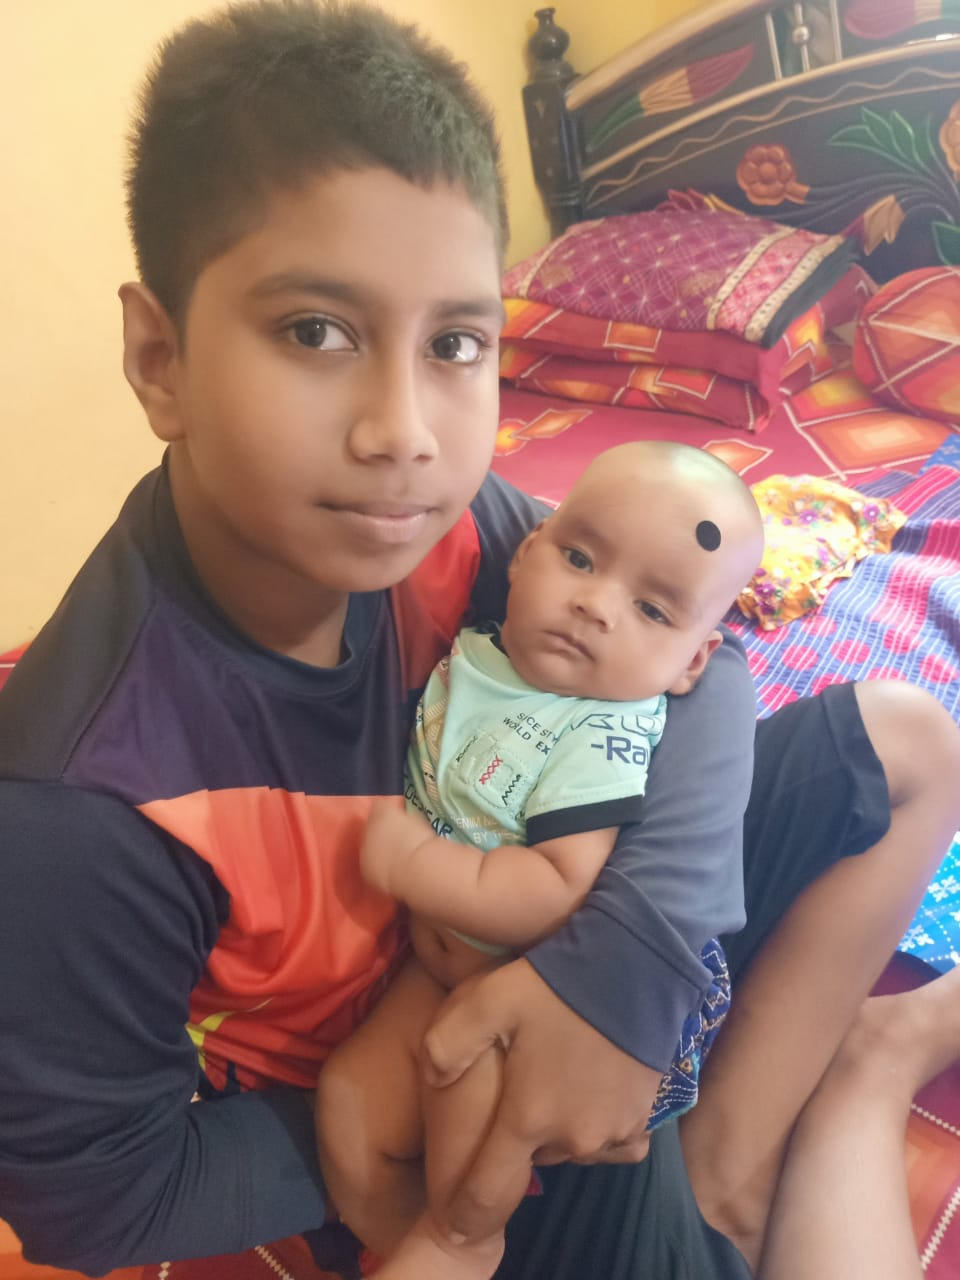
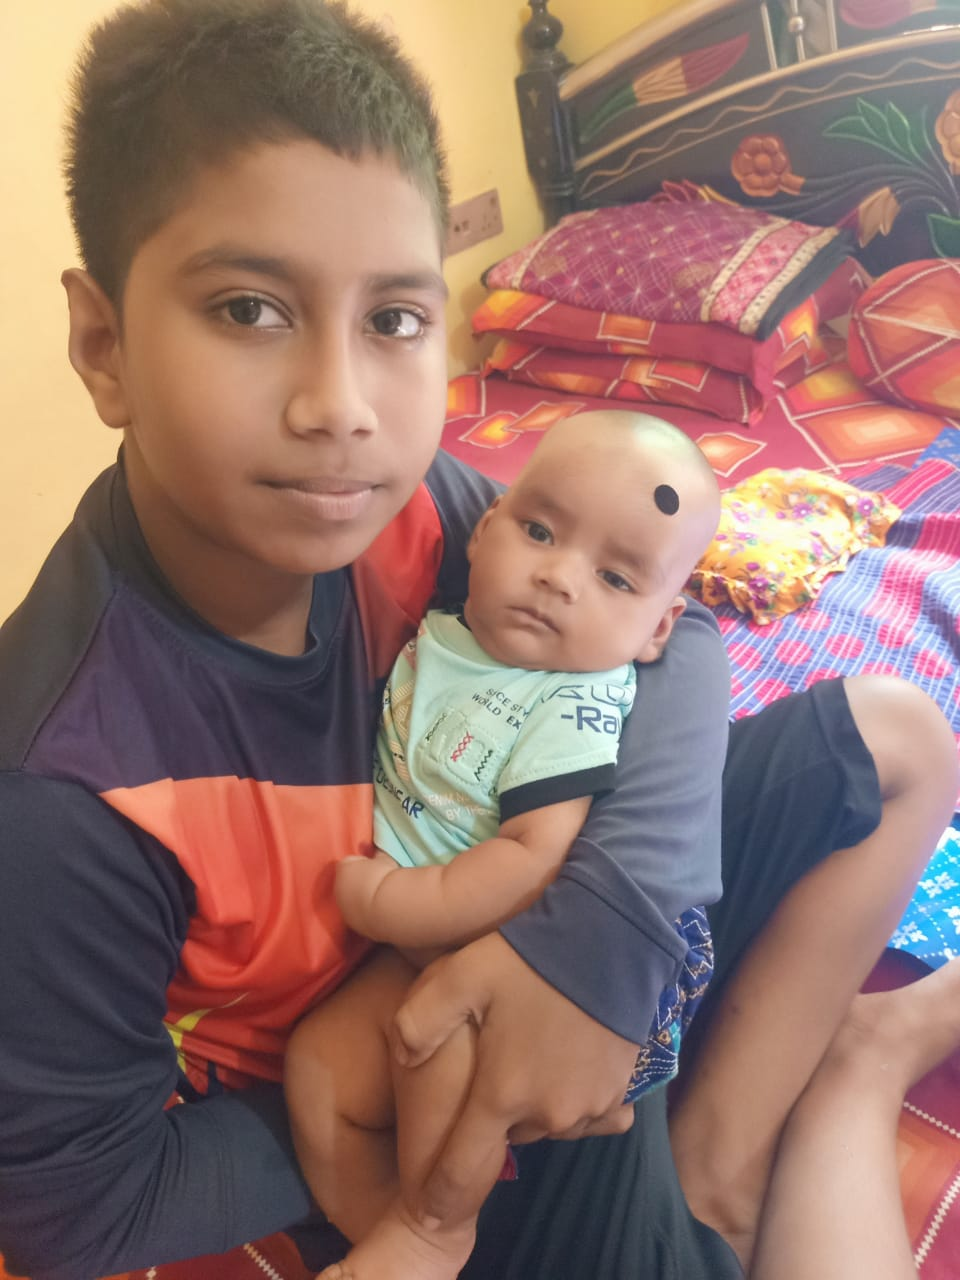
3 images updated

diff --git a/index.html b/index.html
@@ -59,6 +59,9 @@
     <img class="w-full h-104 object-cover rounded-xl" src="./images-1/safwan-23.jpg" alt="">
     <img class="w-full h-104 object-cover rounded-xl" src="./images-1/safwan-24.jpg" alt="">
     <img class="w-full h-104 object-cover rounded-xl" src="./images-1/safwan-25.jpg" alt="">
+    <img class="w-full h-104 object-cover rounded-xl" src="./images-1/safwan-26.jpg" alt="">
+    <img class="w-full h-104 object-cover rounded-xl" src="./images-1/safwan-27.jpg" alt="">
+    <img class="w-full h-104 object-cover rounded-xl" src="./images-1/safwan-28.jpg" alt="">
   </main>
 
   <!-- Videos Section -->
